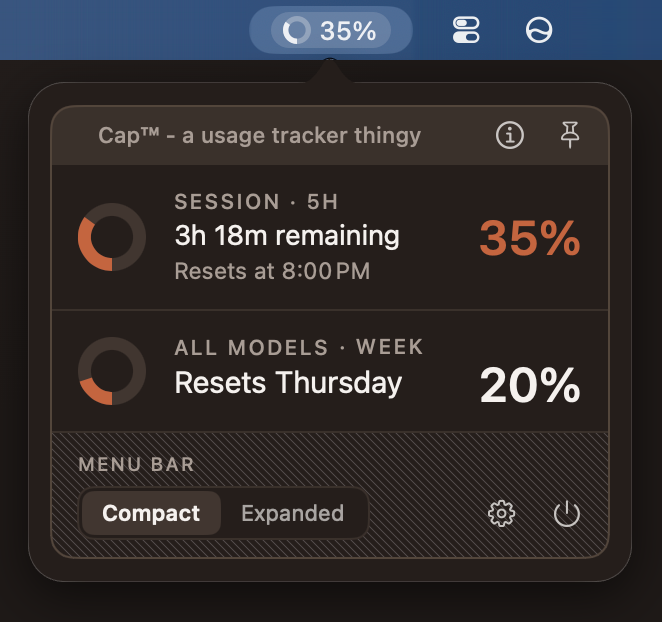
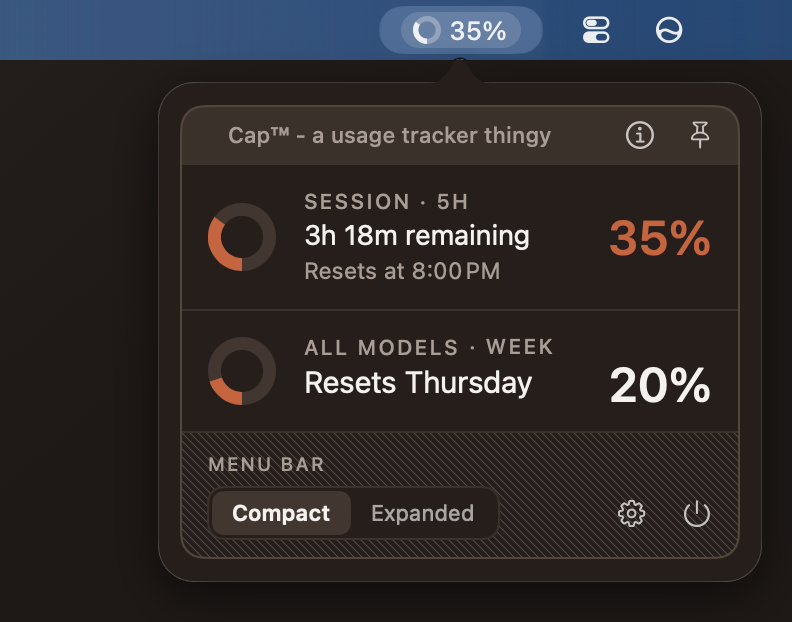
Phone: share-sheet button, roomier first screen, wider hero crop; equal padding in Introducing band; strip widget colour

diff --git a/index.html b/index.html
@@ -72,8 +72,8 @@ header.hero{position:relative;overflow:clip;padding-top:clamp(72px,11vw,140px);d
 
 /* pinned demo */
 #how{position:relative;background:var(--surface-shell);border-top:1px solid var(--hairline)}
-.spacer{height:clamp(32px,4vw,64px)}
-.intro{display:flex;flex-direction:column;align-items:center;gap:6px;text-align:center;padding:0 20px clamp(12px,1.4vw,16px);background:var(--surface-shell);border-bottom:1px solid var(--hairline)}
+.spacer{display:none}
+.intro{display:flex;flex-direction:column;align-items:center;gap:6px;text-align:center;padding:clamp(24px,3vw,40px) 20px;background:var(--surface-shell);border-bottom:1px solid var(--hairline)}
 .intro span{font-size:16px;font-weight:500;letter-spacing:.06em;text-transform:uppercase;color:var(--button)}
 .intro img{width:clamp(278px,27.8vw,405px);height:auto}
 #demo{position:relative;height:400vh}
@@ -214,6 +214,7 @@ footer .legal{max-width:520px;line-height:1.5}
 .cue svg,.hint-arrow{color:var(--accent);animation:cue-bob 2.2s ease-in-out infinite}
 .cue.off{opacity:0;visibility:hidden;pointer-events:none}
 @keyframes cue-bob{0%,100%{transform:translateY(-2px)}50%{transform:translateY(3px)}}
+#toast{position:fixed;left:50%;bottom:calc(76px + env(safe-area-inset-bottom,0px));transform:translateX(-50%);z-index:60;width:min(92vw,360px);padding:12px 16px;border-radius:14px;background:var(--surface-card);color:var(--ink);border:1px solid var(--border);box-shadow:var(--shadow-window);font-size:14px;line-height:1.4;text-align:center}
 #demo-hint{display:flex;flex-direction:column;align-items:center;gap:10px;padding:8px 0 20px;background:var(--surface-card);color:var(--muted);transition:opacity .3s ease}
 @media (max-width:480px){.cue span{display:none}.cue{padding:11px}}
 @media (prefers-reduced-motion: reduce){.cue svg,.hint-arrow{animation:none}}
@@ -243,10 +244,16 @@ picture{display:block}
   .stage.phone .term{left:22px;width:296px}
 }
 @media (max-width:759px){
-  .intro-solo{display:flex;padding-top:28px;padding-bottom:18px}
+  .intro-solo{display:flex;padding-top:32px;padding-bottom:32px}
   .intro-solo img{width:clamp(220px,62vw,300px)}
   #sticky .intro{display:none}
-  .hero-shot{width:100vw;max-width:none;margin-top:40px}
+  header.hero{padding-top:20px}
+  .hero-inner{gap:16px;justify-content:center;min-height:calc(100svh - 55px - 20px - 100px)}
+  .hero-inner>img{width:clamp(48px,8svh,64px);height:clamp(48px,8svh,64px)}
+  .hero-inner h1{font-size:min(10.4vw,5.4svh,46px)}
+  .hero-inner p{font-size:clamp(14.5px,2.1svh,16px);line-height:1.45}
+  .hero-actions{flex-direction:column;align-items:center;gap:10px;margin-top:2px}
+  .hero-shot{width:100vw;max-width:none;margin-top:124px;transform:none!important}
   .shot{border-radius:0;border-left:none;border-right:none}
   .repo-card{padding:20px;gap:16px}
   .repo-card img{width:44px;height:44px}
@@ -313,8 +320,8 @@ picture{display:block}
   </div>
   <div class="hero-shot" data-speed="-0.08">
     <div class="shot">
-      <picture class="theme-light"><source media="(max-width:759px)" srcset="assets/hero-mobile-light.png" width="662" height="622"><img src="assets/hero-light.png" width="1760" height="720" alt="Cap's popover open under the menu bar, showing Session at 35% and All Models at 20%"></picture>
-      <picture class="theme-dark"><source media="(max-width:759px)" srcset="assets/hero-mobile-dark.png" width="662" height="622"><img src="assets/hero-dark.png" width="1760" height="720" alt="Cap's popover open under the menu bar, showing Session at 35% and All Models at 20%"></picture>
+      <picture class="theme-light"><source media="(max-width:759px)" srcset="assets/hero-mobile-light.png" width="792" height="622"><img src="assets/hero-light.png" width="1760" height="720" alt="Cap's popover open under the menu bar, showing Session at 35% and All Models at 20%"></picture>
+      <picture class="theme-dark"><source media="(max-width:759px)" srcset="assets/hero-mobile-dark.png" width="792" height="622"><img src="assets/hero-dark.png" width="1760" height="720" alt="Cap's popover open under the menu bar, showing Session at 35% and All Models at 20%"></picture>
     </div>
   </div>
 </header>
@@ -371,7 +378,7 @@ picture{display:block}
     <div class="fan" id="fan">
       <div data-fan="-112" data-dist="60" data-x="-230" data-y="-170" style="z-index:2"><div class="widget small" style="--track:var(--dial-track);--fill:#B5532F"><div style="display:flex;justify-content:space-between"><span class="lbl">Session</span></div><div style="display:flex;align-items:center;gap:12px"><span class="dial" style="width:56px;height:56px;--fill:conic-gradient(from 180deg,#B5532F 0 31%,transparent 31%);--track:var(--dial-track)"></span><span class="fig" style="font-size:30px">31%</span></div><div class="lbl" style="letter-spacing:0;text-transform:none;font-size:11.5px">2h 17m left · All Models 5%</div></div></div>
       <div data-fan="-28" data-dist="55" data-x="-110" data-y="-120" style="z-index:1"><div class="widget medium" style="background:#2A2321;color:#F4F1EE;border-color:rgba(255,255,255,.1)"><div style="display:grid;grid-template-columns:1fr 1fr;gap:14px"><div style="display:flex;gap:10px;align-items:center"><span class="dial" style="width:48px;height:48px;--fill:conic-gradient(from 180deg,#D9744C 0 74%,transparent 74%);--track:rgba(255,255,255,.12)"></span><div><div class="lbl">Session</div><div class="fig" style="font-size:26px">74%</div></div></div><div style="display:flex;gap:10px;align-items:center"><span class="dial" style="width:48px;height:48px;--fill:conic-gradient(from 180deg,#D9744C 0 41%,transparent 41%);--track:rgba(255,255,255,.12)"></span><div><div class="lbl">All Models</div><div class="fig" style="font-size:26px">41%</div></div></div></div><div class="lbl" style="letter-spacing:0;text-transform:none;font-size:11.5px">1h 05m left</div></div></div>
-      <div data-fan="118" data-dist="60" data-x="-200" data-y="30" style="z-index:3"><div class="widget strip" style="background:#0E0C0BF0;color:#F4F1EE;border-color:rgba(255,255,255,.08)"><span class="dial" style="width:20px;height:20px;--fill:conic-gradient(from 180deg,#E89772 0 12%,transparent 12%);--track:rgba(255,255,255,.12)"></span><span class="lbl" style="color:#F4F1EE99">5h</span><span class="fig" style="font-size:15px">12%</span><span style="width:1px;height:18px;background:rgba(255,255,255,.12)"></span><span class="dial" style="width:20px;height:20px;--fill:conic-gradient(from 180deg,#E89772 0 33%,transparent 33%);--track:rgba(255,255,255,.12)"></span><span class="lbl" style="color:#F4F1EE99">Week</span><span class="fig" style="font-size:15px">33%</span></div></div>
+      <div data-fan="118" data-dist="60" data-x="-200" data-y="30" style="z-index:3"><div class="widget strip" style="background:#2A2321;color:#F4F1EE;border-color:rgba(255,255,255,.1)"><span class="dial" style="width:20px;height:20px;--fill:conic-gradient(from 180deg,#E89772 0 12%,transparent 12%);--track:rgba(255,255,255,.12)"></span><span class="lbl" style="color:#F4F1EE99">5h</span><span class="fig" style="font-size:15px">12%</span><span style="width:1px;height:18px;background:rgba(255,255,255,.12)"></span><span class="dial" style="width:20px;height:20px;--fill:conic-gradient(from 180deg,#E89772 0 33%,transparent 33%);--track:rgba(255,255,255,.12)"></span><span class="lbl" style="color:#F4F1EE99">Week</span><span class="fig" style="font-size:15px">33%</span></div></div>
     </div>
   </div>
 </section>
@@ -464,6 +471,7 @@ picture{display:block}
   </div>
 </footer>
 
+<div id="toast" role="status" aria-live="polite" hidden></div>
 <button type="button" id="scroll-cue" class="cue" aria-label="Scroll down"><span>Keep scrolling</span><svg width="14" height="14" viewBox="0 0 14 14" fill="none" stroke="currentColor" stroke-width="2" stroke-linecap="round" stroke-linejoin="round" aria-hidden="true"><path d="M2.5 5 7 9.5 11.5 5"/></svg></button>
 
 <div id="gate" role="dialog" aria-modal="true" aria-labelledby="gate-title" hidden>
@@ -607,7 +615,29 @@ picture{display:block}
     gateGo.focus();
   }
   function closeGate() { gate.hidden = true; if (lastGate && lastGate.focus) lastGate.focus(); }
-  $$('[data-download]').forEach(function (a) { a.addEventListener('click', openGate); });
+  /* On phones and tablets Cap cannot be installed, so Download becomes "send the link to my Mac" (the system share sheet). */
+  var UA = navigator.userAgent || '';
+  var MOBILE = /iPhone|iPad|iPod|Android/i.test(UA) || (/Macintosh/.test(UA) && navigator.maxTouchPoints > 1);
+  var SITE_URL = 'https://bkelson.github.io/';
+  var toastEl = $('#toast'), toastTimer = 0;
+  function toast(msg) {
+    toastEl.textContent = msg; toastEl.hidden = false;
+    clearTimeout(toastTimer); toastTimer = setTimeout(function () { toastEl.hidden = true; }, 4500);
+  }
+  function copyLink() {
+    var done = function () { toast('Link copied. Open it on your Mac to download Cap.'); };
+    var fail = function () { toast('Open bkelson.github.io on your Mac to download Cap.'); };
+    if (navigator.clipboard && navigator.clipboard.writeText) navigator.clipboard.writeText(SITE_URL).then(done, fail); else fail();
+  }
+  function shareLink() {
+    var data = { title: 'Cap for Mac', text: 'Cap shows your Claude limits in the Mac menu bar. Open this link on your Mac to download it.', url: SITE_URL };
+    if (navigator.share) navigator.share(data).catch(function (err) { if (!err || err.name !== 'AbortError') copyLink(); });
+    else copyLink();
+  }
+  $$('[data-download]').forEach(function (a) {
+    if (MOBILE) a.textContent = a.classList.contains('pill') ? 'Send to Mac' : 'Send the link to my Mac';
+    a.addEventListener('click', function (e) { if (MOBILE) { e.preventDefault(); shareLink(); } else openGate(e); });
+  });
   gateLater.addEventListener('click', closeGate);
   gate.addEventListener('click', function (e) { if (e.target === gate) closeGate(); });
   addEventListener('keydown', function (e) { if (e.key === 'Escape' && !gate.hidden) closeGate(); });
